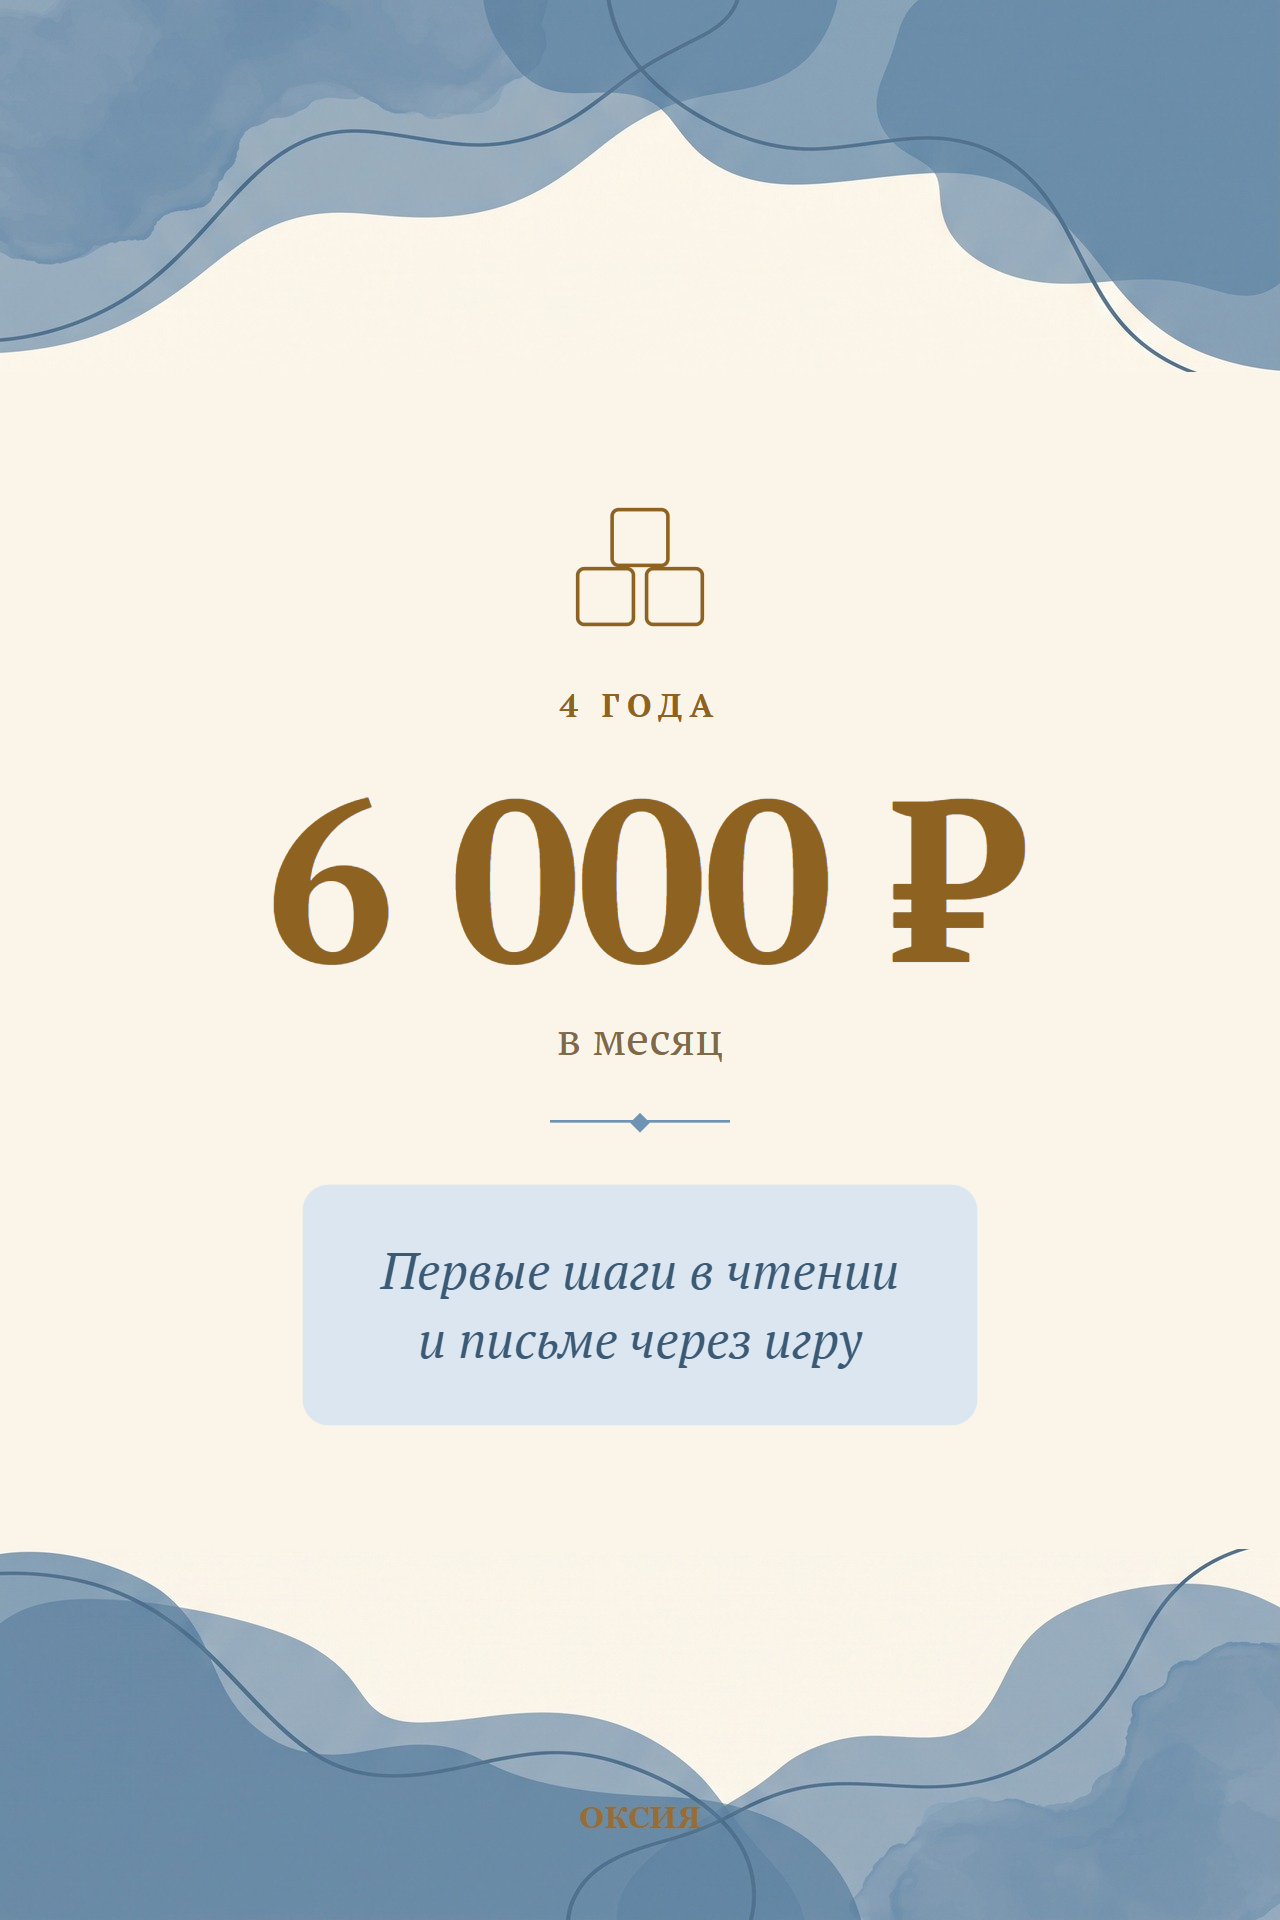
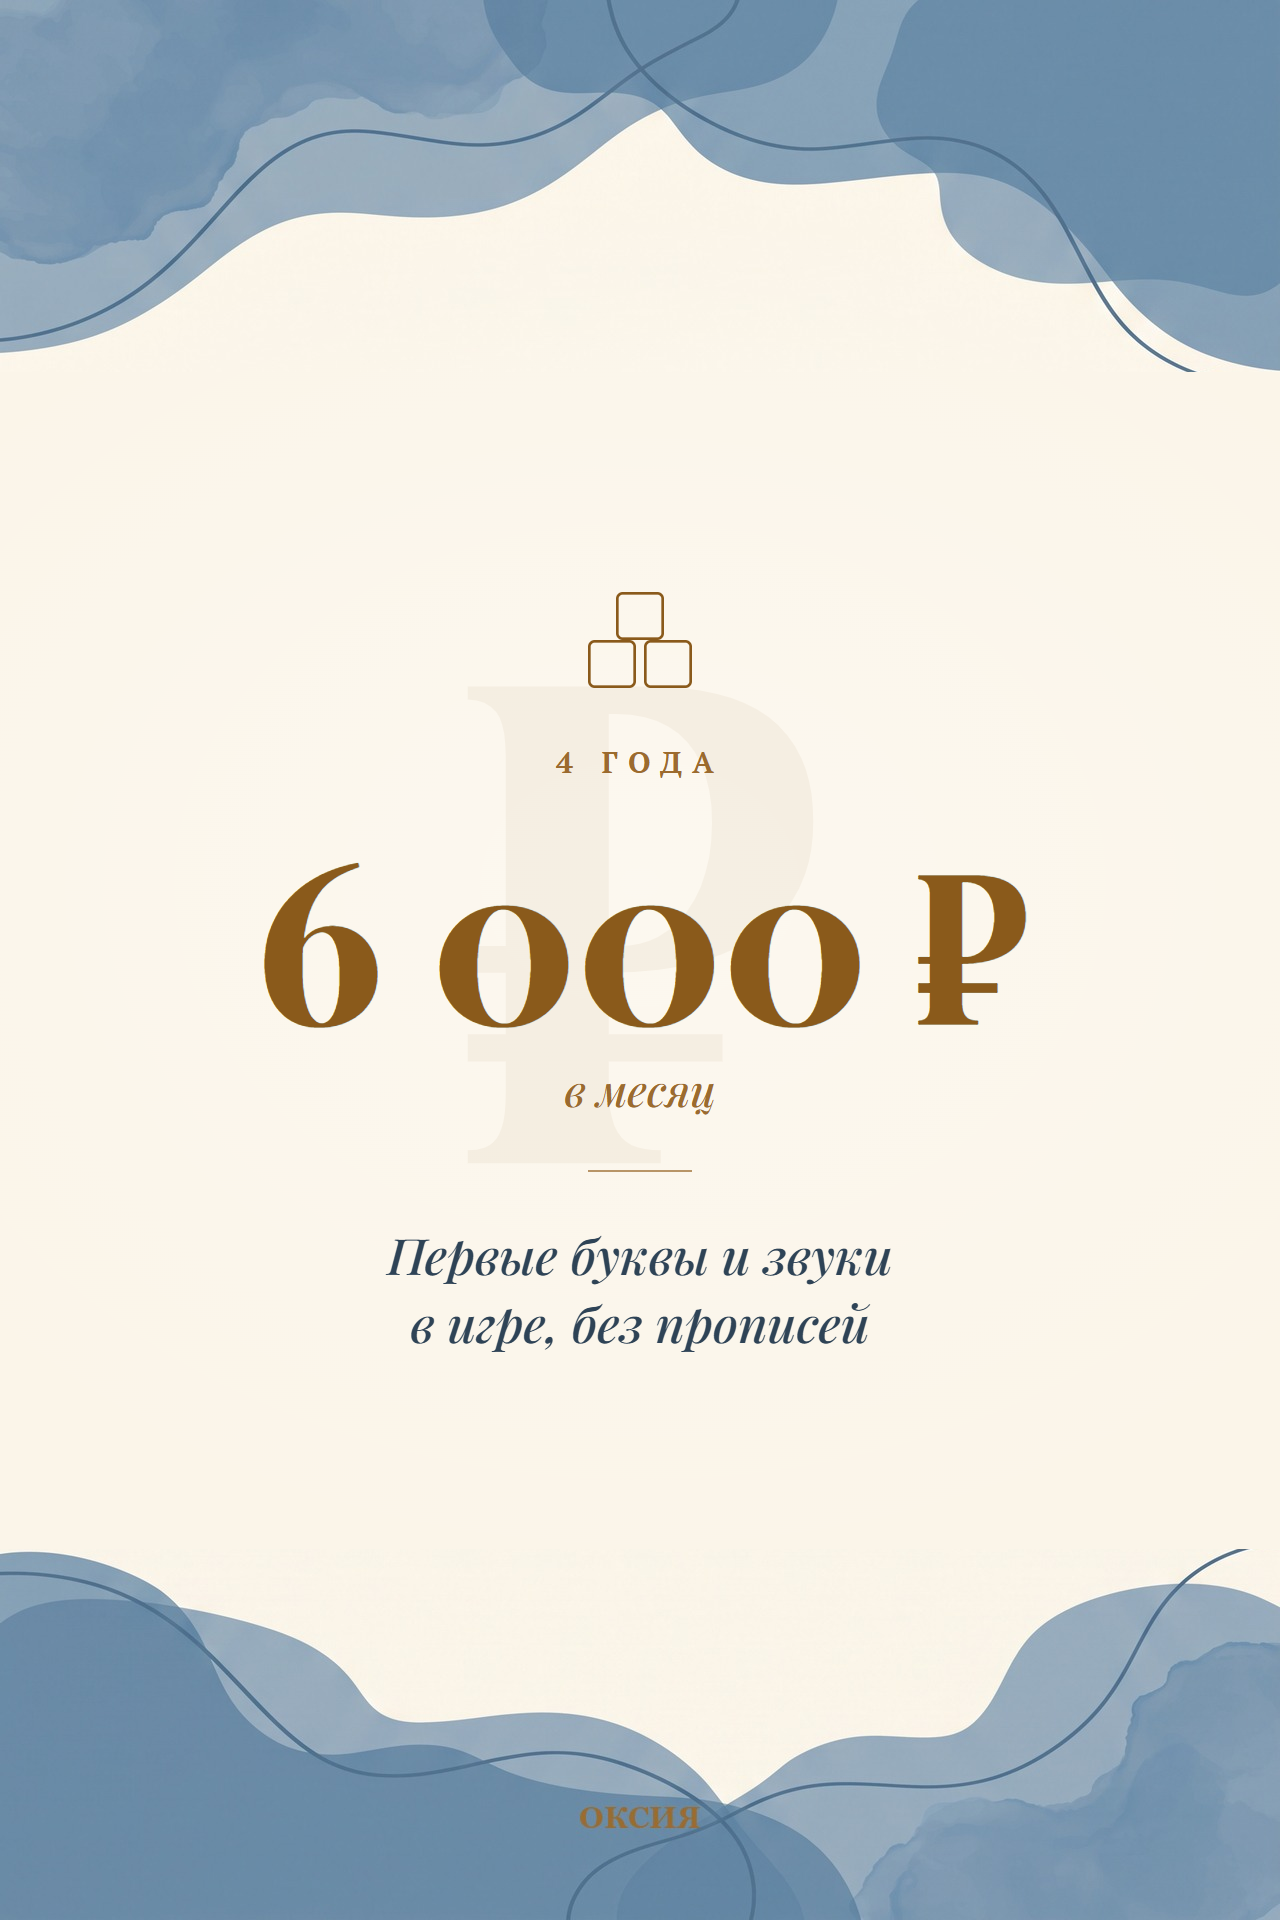
История «Подготовка к школе» v2: премиальная вёрстка, вариативные слайды
Playfair Display в заголовках (журнальный контраст), каждый слайд свёрстан
по-своему (цена = цифра + водяной знак ₽, три возраста = плашки, методика =
печать, результат = синяя полоса, запись = кнопка). Заголовки-крючки.
Без висячих строк, без длинных тире, без счётчика.

Changed region(s): [[0.2188, 0.25, 0.8125, 0.75], [0.1875, 0.4062, 0.3125, 0.5312]]

diff --git a/story-preview/index.html b/story-preview/index.html
@@ -28,8 +28,8 @@
 </head>
 <body>
 <div class="wrap">
-  <h1>История «Подготовка к школе» — новый вид, все 10 слайдов</h1>
-  <p class="lead">Тот же стиль, что на утверждённой обложке: голубые волны, кремовый фон, бронзовый шрифт. Крупный текст, чистый цвет, без длинных тире и висячих строк, без счётчика слайдов. Цены — тремя строками: возраст / сумма / что внутри. Размер 1280×1920, отрисовано вёрсткой.</p>
+  <h1>История «Подготовка к школе» — все 10 слайдов, версия 2</h1>
+  <p class="lead">Голубые волны и кремовый фон оставлены. Дальше — заголовочный шрифт с высоким контрастом (журнальный), каждый слайд свёрстан по-своему, чтобы история не читалась сплошным полотном: цены — гигантская цифра с водяным знаком ₽; «три возраста» — строкой плашек; методика — печатью с линиями; результат — синей полосой на весь кадр; запись — кнопкой. Каждый заголовок — крючок на 3 секунды. Висячих строк нет. Размер 1280×1920, вёрстка.</p>
 
   <h2>Стало</h2>
   <div class="grid">
@@ -39,10 +39,10 @@
     <div class="card"><img src="new/04.png" alt="4"><div class="cap">4. 5 лет — 8 800 ₽</div></div>
     <div class="card"><img src="new/05.png" alt="5"><div class="cap">5. 6-7 лет — 8 800 ₽</div></div>
     <div class="card"><img src="new/06.png" alt="6"><div class="cap">6. Методика РКШ</div></div>
-    <div class="card"><img src="new/07.png" alt="7"><div class="cap">7. Небольшая группа</div></div>
-    <div class="card"><img src="new/08.png" alt="8"><div class="cap">8. Готов к школе</div></div>
-    <div class="card"><img src="new/09.png" alt="9"><div class="cap">9. Старт с 4 лет</div></div>
-    <div class="card"><img src="new/10.png" alt="10"><div class="cap">10. Запись на пробное</div></div>
+    <div class="card"><img src="new/07.png" alt="7"><div class="cap">7. Педагог рядом с каждым</div></div>
+    <div class="card"><img src="new/08.png" alt="8"><div class="cap">8. В школу идёт без страха</div></div>
+    <div class="card"><img src="new/09.png" alt="9"><div class="cap">9. Чем раньше, тем легче</div></div>
+    <div class="card"><img src="new/10.png" alt="10"><div class="cap">10. Пробное занятие</div></div>
   </div>
 
   <h2>Было</h2>
@@ -60,12 +60,12 @@
   </div>
 
   <div class="q">
-    <p><b>Нужно решение по датам (слайд 10).</b> В сценарии были 3, 8 и 10 сентября. 3-е уже прошло, поставил «8 и 10 сентября». Скажи актуальные даты пробных — поправлю.</p>
+    <p><b>Нужны актуальные даты пробных (слайд 10).</b> В сценарии были 3, 8 и 10 сентября. 3-е прошло, пока стоит «8 и 10 сентября». Дай даты — поправлю за минуту.</p>
   </div>
 
   <ul>
-    <li>Немного дописал подписи под смысл: «три возрастные группы», «как учим», «спокойный старт в первом классе». Если что-то не так — скажи, поменяю.</li>
-    <li>После правок — заменю эти картинки в панели и соберу остальные 5 историй в этом же стиле.</li>
+    <li>Заголовки переписаны под крючок: «В школу идёт без страха», «Чем раньше, тем легче», «Педагог рядом с каждым».</li>
+    <li>Если версия ок — заменю картинки в панели и соберу остальные 5 историй в этом же стиле.</li>
   </ul>
 
   <a class="back" href="../">← к панели ОКСИЯ</a>
